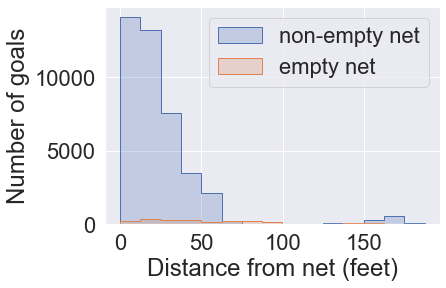
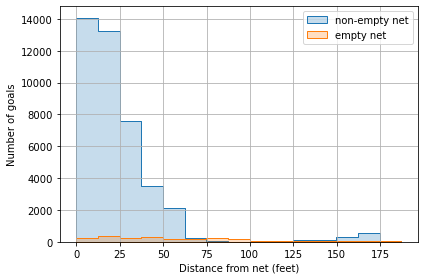
#15 adding more analysis for our blog.

Changed region(s): [[0.0, 0.0, 1.0, 0.9714]]

diff --git a/project/ift6758/visualizations/plot_feature_engineer_1.py b/project/ift6758/visualizations/plot_feature_engineer_1.py
@@ -1,3 +1,4 @@
+#%%
 import matplotlib.pyplot as plt
 import seaborn as sns
 import pandas as pd
@@ -5,7 +6,7 @@ import numpy as np
 
 #%%
 
-data = pd.read_csv('./project/ift6758/data/games_data/games_data_all_seasons.csv')
+data = pd.read_csv('../../../project/ift6758/data/games_data/games_data_all_seasons.csv')
 
 #%%
 # plot histogram of goal or no goal according to distance from net
@@ -80,4 +81,8 @@ hist_distance_goals = sns.histplot(data=data_goals, x='distance_net', hue='empty
 plt.xlabel('Distance from net (feet)')
 plt.ylabel('Number of goals')
 plt.legend(labels=['non-empty net', 'empty net'])
+plt.tight_layout()
+plt.grid()
 plt.show()
+
+# %%

diff --git a/blog/_posts/2021-11-3-milestone-2.md b/blog/_posts/2021-11-3-milestone-2.md
@@ -5,7 +5,7 @@ title: IFT6758 Milestone 2
 
 ## Question 2
 
-Using our work from the previous milestone, we have extended our features by adding the following ones:
+Using our work from the previous milestone, we have extended our features by adding the following ones presented in the table below:
 
 | Feature      | Description |
 | ----------- | ----------- |
@@ -31,10 +31,16 @@ Using our work from the previous milestone, we have extended our features by add
     <figcaption style="font-size: 12px;text-align: center;">Figure 3: Goal rate vs distance.</figcaption>
 </figure>
 
+All the figures above give us interesting infromation about shots and goals in the NHL. If we analyze Figure 3, we can observe that when attacking players are very close to the opponent's net, the chance that they score is much higher, which intuitively makes sense.
+
 <figure style="display: block;margin-left: auto; margin-right: auto;width:50%;height:50%;">
     <img src="/public/goal_rate_vs_angle.png" alt="goal_rate_vs_angle">
     <figcaption style="font-size: 12px;text-align: center;">Figure 4: Goal rate vs angle.</figcaption>
 </figure>
+
+From Figure 4 above, we can see that the goal rate is much higher when the shot is coming from the left and right side compared when the shot comes from the the center of the ice. This makes sense  as goalies are much more vulnerable when shots come from the top of the circles (both left and right side).
+
+Another interesting thing about Figure 4 is when we compare the goal rate from the left side to the right side. One reason why the goal rate is higher on the right side could be because the majority of NHL goalies have their glove on their left hand (maybe it's easier to stop shots with the glove in contrast to the blocker hand). Another reason might simply be because players shooting from the right side are much better than the ones shooting from the left side and, therefore, have a higher goal rate.
 
 <figure style="display: block;margin-left: auto; margin-right: auto;width:50%;height:50%;">
     <img src="/public/histogram_goals.png" alt="Goals (empty net and non-empty net) vs distance">
